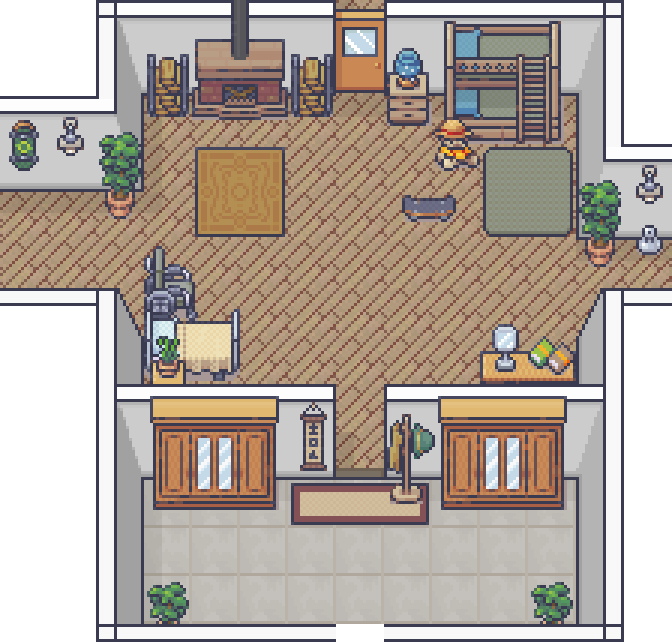
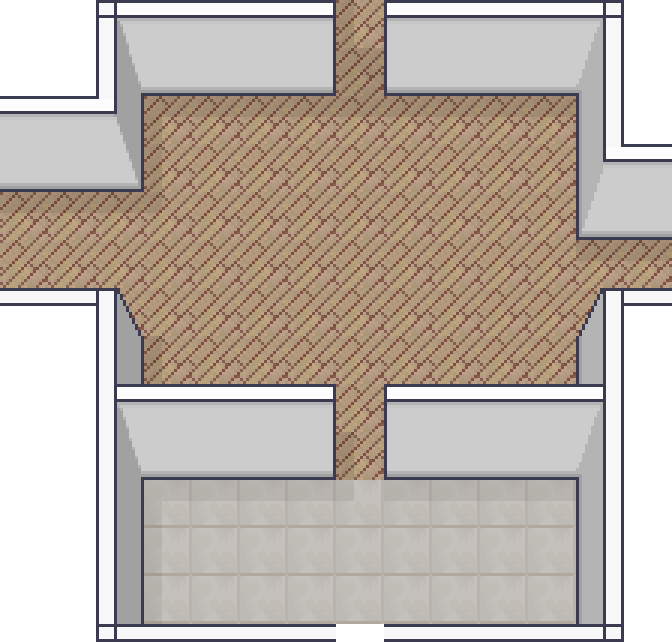
🏚→🛋 the showroom retires — rooms are EMPTY shells you furnish
Trym: 'my regular user gets a house thats fully decorated.' The
stage-2/3 interiors were the pack's pre-furnished layer_2 plates,
so your own catalog had nowhere to live. Rooms now composite
layer_1 ONLY (floors + walls), colliders are walls-only (matched
to the layer_1 renders), and the baked kitchen zones went with
the counters — the placed STOVE is the kitchen everywhere, tent
to house. Proven: entered the empty Japanese house furnished with
six player pieces (stove, kotatsu, futon, bonsai, grand piano,
paper lantern).

diff --git a/src/scripts/homestead-geo.js b/src/scripts/homestead-geo.js
@@ -18,4 +18,4 @@ export const SIGN = { x: 1010, y: 850, w: 31, h: 31 };
 export const OB_RECTS = [[141, 868, 229, 890]];
 export const OVERLAYS = [];
 export const BIRDS = ["cardinal", "bluejay", "chickadee", "redrobin", "whitedove", "magpie"];
-export const INTERIORS = {"2": {"img": "in-generic.png", "box": [564, 229, 672, 642], "spawn": [919, 394], "exit": [889, 349, 949, 371], "kitchen": [684, 639, 1154, 774], "cols": [[564, 229, 889, 357], [949, 229, 1236, 357], [564, 229, 622, 871], [1178, 229, 1236, 871], [564, 821, 1236, 871], [699, 289, 899, 381], [939, 284, 1129, 377], [694, 514, 799, 597], [1039, 557, 1139, 607], [622, 604, 862, 634], [996, 604, 1178, 634], [699, 657, 852, 761], [992, 657, 1142, 761]]}, "3": {"img": "in-japanese.png", "box": [444, 229, 912, 642], "spawn": [739, 789], "exit": [644, 825, 834, 859], "kitchen": [489, 554, 649, 644], "cols": [[444, 229, 1356, 324], [444, 229, 494, 871], [1306, 229, 1356, 871], [444, 719, 629, 871], [844, 719, 1356, 871], [504, 259, 734, 374], [489, 324, 544, 419], [769, 329, 879, 409], [994, 289, 1029, 524], [1029, 511, 1309, 534], [1059, 379, 1304, 464], [1019, 289, 1069, 329], [489, 424, 734, 447], [732, 425, 914, 521], [539, 484, 634, 541], [496, 564, 642, 637], [832, 565, 966, 651], [1036, 617, 1202, 697], [1112, 521, 1309, 571]]}, "1": {"img": "in-tent.png", "box": [732, 360, 336, 288], "spawn": [900, 590], "exit": [856, 626, 944, 646], "cols": [[732, 360, 1068, 460], [732, 360, 768, 648], [1032, 360, 1068, 648], [732, 624, 852, 648], [948, 624, 1068, 648], [772, 472, 828, 560], [970, 472, 1024, 532]]}};
+export const INTERIORS = {"2": {"img": "in-generic.png", "box": [564, 229, 672, 642], "spawn": [919, 394], "exit": [889, 349, 949, 371], "cols": [[564, 229, 889, 357], [949, 229, 1236, 357], [564, 229, 622, 871], [1178, 229, 1236, 871], [564, 821, 1236, 871], [622, 604, 862, 634], [996, 604, 1178, 634]]}, "3": {"img": "in-japanese.png", "box": [444, 229, 912, 642], "spawn": [739, 789], "exit": [644, 825, 834, 859], "cols": [[444, 229, 1356, 324], [444, 229, 494, 871], [1306, 229, 1356, 871], [444, 719, 629, 871], [844, 719, 1356, 871], [489, 424, 734, 499], [972, 284, 1016, 369], [924, 424, 976, 514], [979, 529, 1112, 611]]}, "1": {"img": "in-tent.png", "box": [732, 360, 336, 288], "spawn": [900, 590], "exit": [856, 626, 944, 646], "cols": [[732, 360, 1068, 460], [732, 360, 768, 648], [1032, 360, 1068, 648], [732, 624, 852, 648], [948, 624, 1068, 648], [772, 472, 828, 560], [970, 472, 1024, 532]]}};

diff --git a/tools/build-homestead-scene.py b/tools/build-homestead-scene.py
@@ -828,45 +828,40 @@ if os.path.isdir(BIRDS_DIR):
     print('  birds:', ', '.join(BIRD_KEYS))
 
 # ---- 🛋 INTERIORS (M4) — step inside the house ----------------------------
-# Modern Interiors Home_Designs ship as layer_1 (floor/under) + layer_2
-# (above): v1 composites both into ONE walkable plate — colliders keep the
-# banana in the lanes, so occlusion sins stay invisible. The room lives INSIDE
-# the outdoor world's coordinate space (over a shade layer) so the whole
-# camera/collision/tap machinery is reused verbatim.
-# Colliders + door + kitchen zones are EYEBALLED off the previews (local px,
-# offset to world at emit). Stage 2 = Generic_Home_1 (top door), stage 3 =
-# Japanese_Home_1 (genkan at the bottom — the shoes ARE the door).
+# Modern Interiors Home_Designs ship as layer_1 (floor/walls — the EMPTY
+# shell) + layer_2 (all the furniture). M4.5 made rooms furnishable, so the
+# showroom layer_2 RETIRED (Trym: "my regular user gets a house thats fully
+# decorated") — rooms are empty shells the player fills; colliders are WALLS
+# only, and the kitchen zones went with the baked counters: the placed STOVE
+# item is the kitchen everywhere. The room lives INSIDE the outdoor world's
+# coordinate space (over a shade layer) so camera/collision/taps are reused.
+# Wall colliders are EYEBALLED off the layer_1 renders (local px, offset at
+# emit). Stage 2 = Generic_Home_1 (top door), stage 3 = Japanese_Home_1
+# (genkan at the bottom — the stone entry IS the door).
 MI = os.path.expanduser(r'~\OneDrive\banana-art-pack\moderninteriors-win\6_Home_Designs')
 INTERIOR_DEF = {
     2: {
         'glob': 'Generic_Home_Designs/48x48/Generic_Home_1_*ayer_*48x48*.png',
         'img': 'in-generic.png', 'at': (564, 229),
-        'spawn': (355, 165), 'exit': (325, 120, 385, 142), 'kitchen': (120, 410, 590, 545),
+        'spawn': (355, 165), 'exit': (325, 120, 385, 142),
         'cols': [
             (0, 0, 325, 128), (385, 0, 672, 128),          # top walls, door lane open
             (0, 0, 58, 642), (614, 0, 672, 642), (0, 592, 672, 642),
-            (135, 60, 335, 152), (375, 55, 565, 148),      # fireplace row · dresser+bunk
-            (130, 285, 235, 368), (475, 328, 575, 378),    # sewing corner · desk
-            (58, 375, 298, 405), (432, 375, 614, 405),     # the kitchen wall, lane open
-            (135, 428, 288, 532), (428, 428, 578, 532),    # counters
+            (58, 375, 298, 405), (432, 375, 614, 405),     # the room wall, lane open
         ],
     },
     3: {
         'glob': 'Japanese_Interiors_Home_Designs/48x48/Japanese_Home_1_*ayer_*48x48*.png',
         'img': 'in-japanese.png', 'at': (444, 229),
-        'spawn': (295, 560), 'exit': (200, 596, 390, 630), 'kitchen': (45, 325, 205, 415),
+        'spawn': (295, 560), 'exit': (200, 596, 390, 630),
         'cols': [
             (0, 0, 912, 95),                               # top walls
             (0, 0, 50, 642), (862, 0, 912, 642),
             (0, 490, 185, 642), (400, 490, 912, 642),      # bottom walls, genkan open
-            (60, 30, 290, 145), (45, 95, 100, 190),        # cabinet row · zen corner
-            (325, 100, 435, 180),                          # kotatsu
-            (550, 60, 585, 295), (585, 282, 865, 305),     # bedroom walls
-            (615, 150, 860, 235), (575, 60, 625, 100),     # beds · appliance
-            (45, 195, 290, 218), (288, 196, 470, 292),     # tea-room wall · shoji row
-            (95, 255, 190, 312), (52, 335, 198, 408),      # tea table · irori hearth
-            (388, 336, 522, 422), (592, 388, 758, 468),    # dining · desk set
-            (668, 292, 865, 342),                          # right shoji band
+            (45, 195, 290, 270),                           # mid-left slate wall
+            (528, 55, 572, 140),                           # top-centre pillar
+            (480, 195, 532, 285),                          # centre slate wall
+            (535, 300, 668, 382),                          # mid-right slate wall
         ],
     },
 }
@@ -874,7 +869,8 @@ INTERIORS_OUT = {}
 if os.path.isdir(MI):
     for tier, spec in INTERIOR_DEF.items():
         layers = sorted(_glob.glob(os.path.join(MI, spec['glob'])))
-        layers = [f for f in layers if 'preview' not in f.lower()]
+        # layer_1 ONLY — the empty shell; layer_2 was the baked showroom
+        layers = [f for f in layers if 'layer_1' in f.lower()]
         if not layers:
             print('  MISSING interior', tier, spec['glob'])
             continue
@@ -887,9 +883,11 @@ if os.path.isdir(MI):
         INTERIORS_OUT[tier] = {
             'img': spec['img'], 'box': [ox, oy, base.width, base.height],
             'spawn': [spec['spawn'][0] + ox, spec['spawn'][1] + oy],
-            'exit': off(spec['exit']), 'kitchen': off(spec['kitchen']),
+            'exit': off(spec['exit']),
             'cols': [off(c) for c in spec['cols']],
         }
+        if 'kitchen' in spec:
+            INTERIORS_OUT[tier]['kitchen'] = off(spec['kitchen'])
         print('  %s %dx%d (%d layers, %d colliders)' % (spec['img'], base.width, base.height, len(layers), len(spec['cols'])))
 
 # ---- 🍌 THE BANANA PHONE — drawn UI art (Trym commissioned: "needs to be
